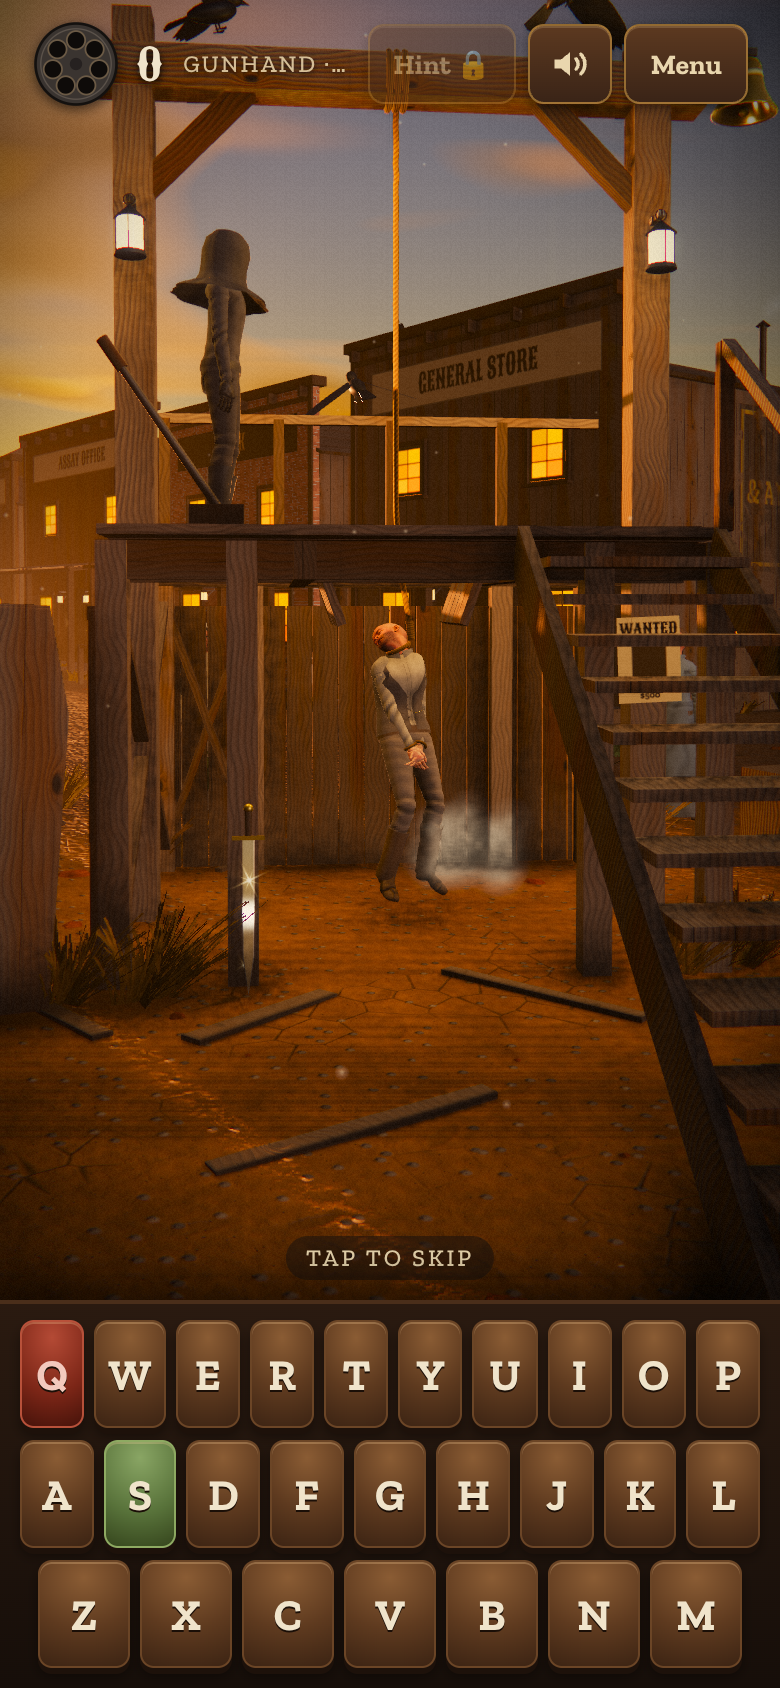
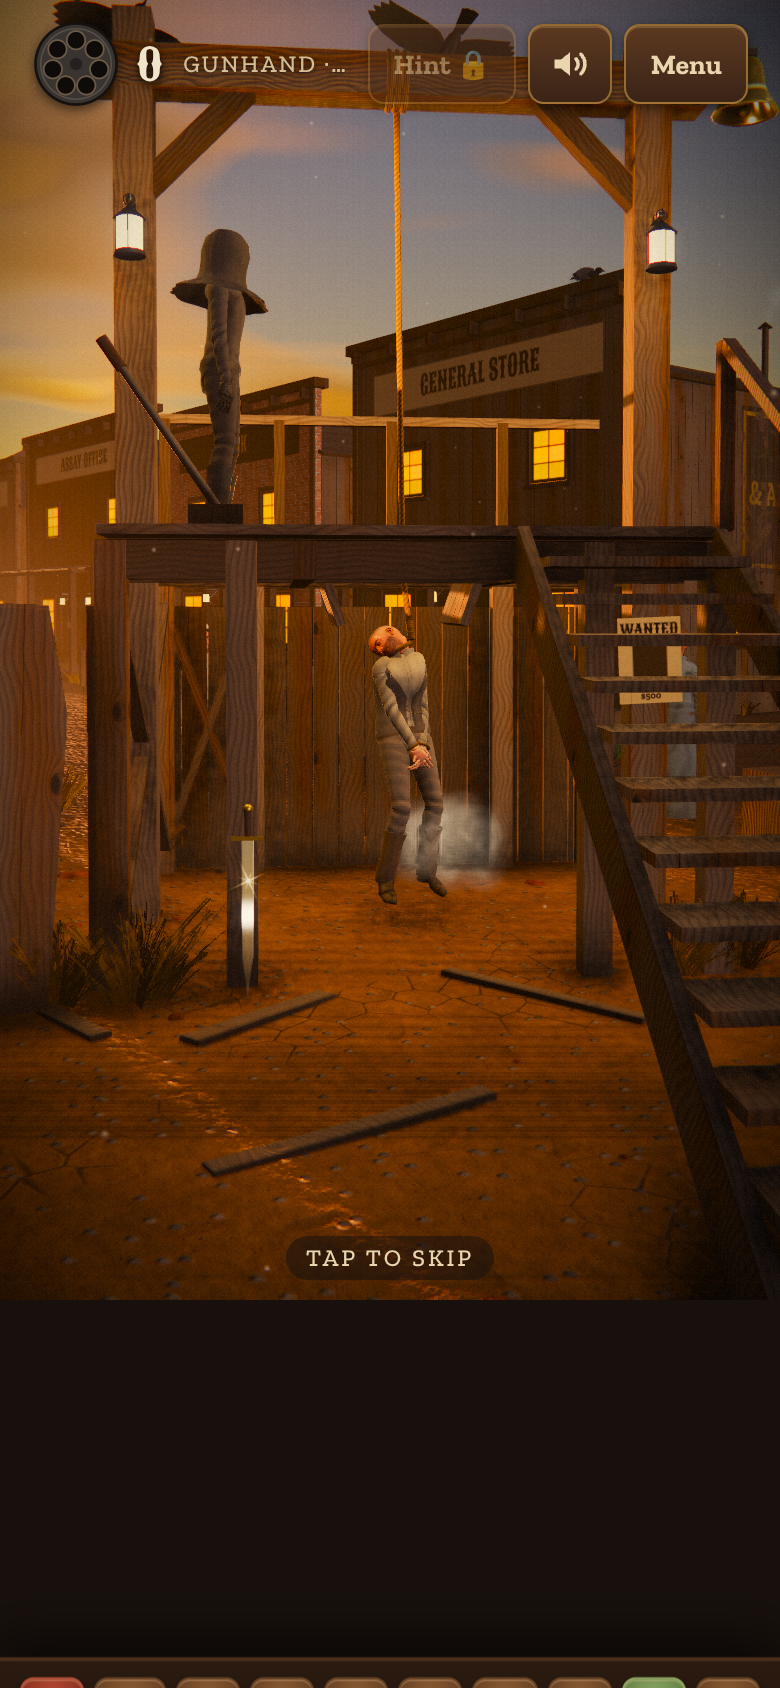
v36: s131 waits for a drawn frame before the Skip click; s136 avoids anything in front of the horse and runs faster; scorch pool drawn only with a mark; screenshots
Claude-Session: https://claude.ai/code/session_01ECGrxhWAaDgD9EEz948RYb

diff --git a/src/12k_laser.js b/src/12k_laser.js
@@ -32,7 +32,7 @@ function prepLaser(gltf) {
   for (const k of ["glowA", "glowB"]) { const s = new THREE.Sprite(new THREE.SpriteMaterial({ map: glow, color: 0x9ad8ff, blending: THREE.AdditiveBlending, depthWrite: false, transparent: true, fog: false }));
     s.visible = false; s.renderOrder = 8; R.scene.add(s); LASER[k] = s; }
   LASER.glowA.material.depthTest = false;
-  LASER.sparks = pointPool(220, 0.045, 0x8fd6ff, true); LASER.scorch = decalPool(140, scorchTex(), false, 0.16);
+  LASER.sparks = pointPool(220, 0.045, 0x8fd6ff, true); LASER.scorch = decalPool(140, scorchTex(), false, 0.16); LASER.scorch.im.visible = false; // (drawn only once there is a mark)
   LASER.ready = true; resetLaser();
 }
 function laserGlowTex() { const c = document.createElement("canvas"); c.width = c.height = 64; const g = c.getContext("2d"), gr = g.createRadialGradient(32, 32, 0, 32, 32, 32);
@@ -70,7 +70,7 @@ function resetLaser() {
   const L = LASER; if (!L.ready) return; L.state = "crate"; L.lift = null; L.charge = LASER_CFG.charge; L.rechargeT = 0; L.hold = L.firing = false; L.awake = false; L.hudKey = "";
   L.vm.visible = false; L.crate.visible = false; L.beam.visible = false; gunHud.key = null; const rb = $("reloads"); if (rb) rb.style.display = ""; L.glowA.visible = L.glowB.visible = false; L.mat.emissiveIntensity = L.e0 * 0.12;
   Sound.laser(false); Sound.laserWake(null, false); Sound.laserCharge(false);
-  L.scorch.used = L.scorch.next = 0; L.scorch.im.count = 0; L.sparks.life.fill(0); L.sparks.pts.visible = false;
+  L.scorch.used = L.scorch.next = 0; L.scorch.im.count = 0; L.scorch.im.visible = false; L.sparks.life.fill(0); L.sparks.pts.visible = false;
 }
 // the revolver's empty: it wakes on the crate, lights up and hums, so you might hear where it is
 function laserWake() { const L = LASER; if (!L.ready || L.state !== "crate" || L.awake) return; L.awake = true; Sound.laserWake(L.crate.position, true); }
@@ -128,7 +128,7 @@ function laserBeam(dt) {
     else if (k === "tgt") { const T = tg.T; if (tg.weed || (T.laserT || 0) <= L.t) { if (T) T.laserT = L.t + 0.3; targetShot(tg, at, rd); } }
     else if (k === "bell") { if (L.bellT <= 0) { L.bellT = 0.7; bellShot(at, rd); } }
     else { const n = env.face ? _l2.copy(env.face.normal).transformDirection(env.object.matrixWorld) : _l2.set(0, 1, 0); if (n.dot(rd) > 0) n.negate();
-      if (L.scorchT <= 0 && !(env.object.material === WORLD.winMat)) { L.scorchT = LASER_CFG.scorchGap; decal(L.scorch, at, n, rnd(0.7, 1.2)); }
+      if (L.scorchT <= 0 && !(env.object.material === WORLD.winMat)) { L.scorchT = LASER_CFG.scorchGap; decal(L.scorch, at, n, rnd(0.7, 1.2)); L.scorch.im.visible = true; }
       if (L.envT <= 0) { L.envT = LASER_CFG.envGap; envShot(env, rd, true); } } }
   // sparks and smoke where it strikes; the beam itself and its glow
   for (let i = 0; i < 3; i++) emit(L.sparks, at, _l3.copy(rd).multiplyScalar(-rnd(0.6, 2.2)).add(_l4.set(rnd(-1.4, 1.4), rnd(-0.3, 1.8), rnd(-1.4, 1.4))), rnd(0.12, 0.35));

diff --git a/test/scenarios/mk_s136.py b/test/scenarios/mk_s136.py
@@ -1,5 +1,6 @@
 # builds test/s136.json: v36, the laser gun on the crate, and horses and crows that fall (or come out as meat).
-#   - the laser lies on the crate at your first cover, out of sight in the usual view and in sight when you look down at it
+#   - the laser lies on the crate at your middle cover, out of sight in the usual views (crouched behind the crate, or up and looking
+#     ahead) and in sight when you look down at it ("seen": how many of its bounding box's corners and middle show, of 9)
 #   - tapping it with a round left in the revolver does nothing but say so
 #   - the town horse shot with the revolver goes down and lies on the ground
 #   - the revolver empty: the laser wakes, a tap picks it up, the fight goes on with it
@@ -19,27 +20,33 @@ steps.append(["wait", 2500]); steps.append(["click", "#startBtn"]); steps.append
 E(open(os.path.join(HERE, "chase_helpers.js")).read())
 E("""window.__check = (name, ok, info) => JSON.stringify({ check: name, ok: !!ok, info, errs: __errs.slice(0, 3) });
 window.__onScreen = p => { R.camera.updateMatrixWorld(); const q = p.clone().project(R.camera); return Math.abs(q.x) < 1 && Math.abs(q.y) < 1 && q.z < 1; };
+window.__seen = o => { o.updateMatrixWorld(); const bb = new THREE.Box3().setFromObject(o), pts = [bb.getCenter(V3())], ro = R.camera.position.clone(); let n = 0; // (how many of its corners and its middle are on the screen with nothing in front)
+  for (const x of [bb.min.x, bb.max.x]) for (const y of [bb.min.y, bb.max.y]) for (const z of [bb.min.z, bb.max.z]) pts.push(V3(x, y, z));
+  for (const p of pts) { if (!__onScreen(p)) continue; const d = p.clone().sub(ro), dist = d.length(), e = sceneryRay(ro, d.normalize(), dist + 1); if (!e || e.distance > dist - 0.02) n++; } return n; };
 window.__tapAt = p => { const r = $('scene').getBoundingClientRect(), q = p.clone().project(R.camera); return { clientX: r.left + (q.x * 0.5 + 0.5) * r.width, clientY: r.top + (-q.y * 0.5 + 0.5) * r.height, cancelable: false, preventDefault() {} }; };
 window.__ray = () => { R.camera.updateMatrixWorld(); return [R.camera.position.clone(), V3(0, 0, -1).applyQuaternion(R.camera.quaternion).normalize()]; };
-window.__track = async (pt, ok, n = 240) => { for (let i = 0; i < n; i++) { __calm(); __aimPt(pt()); await __go(1); const [ro, rd] = __ray(); if (i > 12 && ok(ro, rd)) return true; } return false; };
-window.__horseFirst = (ro, rd) => { const h = townHorseRay(ro, rd), e = sceneryRay(ro, rd, 80); return h && (!e || h.t < e.distance); };
+window.__step = async n => { const RF = window.renderFrame; window.renderFrame = () => {}; try { await __go(n); } finally { window.renderFrame = RF; } return 1; }; // (__go without its one drawn frame at the end: the camera is placed in the tick)
+window.__track = async (pt, ok, n = 240) => { for (let i = 0; i < n; i++) { __calm(); __aimPt(pt()); await __step(1); const [ro, rd] = __ray(); if (i > 12 && ok(ro, rd)) return true; } return false; };
+window.__horseFirst = (ro, rd) => { const h = townHorseRay(ro, rd), e = sceneryRay(ro, rd, 80); if (!h || (e && e.distance < h.t)) return false; // (and nobody, no crow, bottle or bell in the way)
+  for (const E of SIEGE.enemies) { if (!E.alive) continue; const m = rayActor(E.a, ro, rd, E.female, 0.05); if (m && m.t < h.t) return false; }
+  const c = crowRay(ro, rd), t = targetRay(ro, rd), b = bellRay(ro, rd); return !(c && c.t < h.t) && !(t && t.t < h.t) && !(b > 0 && b < h.t); };
 window.__horseInView = () => { const H = LIFE.horse; if (!H.run || !H.grp.visible) return false; const c = H.grp.localToWorld(V3(0, 1.2, 0)), ro = R.camera.position, rd = c.clone().sub(ro), d = rd.length(); rd.normalize(); const e = sceneryRay(ro, rd, d + 1);
   return (!e || e.distance > d - 0.6) && Math.abs(((Math.atan2(rd.x, rd.z) - SIEGE.covers[SIEGE.cover].yaw0 + Math.PI) % TAU + TAU) % TAU - Math.PI) < 1.1; };
 window.__horseUp = async () => { const H = LIFE.horse; H.wait = 0; SIEGE.holding = true; await __go(600, () => { __calm(); return H.run && H.run.seg >= 1 && __horseInView(); });
   return __track(() => H.grp.localToWorld(V3(0, 1.2, 0)), __horseFirst); }; 1""")
 # the laser on the crate
 E("""(async () => { for (let i = 0; i < 100 && !LASER.ready; i++) await new Promise(r => setTimeout(r, 200)); SIEGE_CFG.hitUp = 0; SIEGE_CFG.hitRun = 0; await __siege(); const S = SIEGE, L = LASER;
-  const normal = []; for (const up of [false, true]) for (const pitch of [-0.15, 0, 0.15]) { S.holding = up; S.yaw = S.covers[S.cover].yaw0; S.pitch = pitch; await __go(30, () => { __calm(); return false; }); normal.push(__onScreen(L.crate.position)); }
-  S.holding = true; __aimPt(L.crate.position); await __go(20, () => { __calm(); __aimPt(L.crate.position); return false; }); const seen = __onScreen(L.crate.position), pitch = +S.pitch.toFixed(2);
-  const [ro] = __ray(), to = L.crate.position.clone().sub(ro), d = to.length(), e = sceneryRay(ro, to.normalize(), d + 1), clear = !e || e.distance > d - 0.08;
-  return __check('laser on the crate', L.ready && L.state === 'crate' && L.crate.visible && S.cover === 1 && !normal.some(Boolean) && seen && clear && pitch < -0.5, { cover: S.cover, normal, seen, clear, pitch }); })()""")
+  const normal = []; for (const up of [false, true]) for (const pitch of [-0.15, 0, 0.15]) { S.holding = up; S.yaw = S.covers[S.cover].yaw0; S.pitch = pitch; await __go(30, () => { __calm(); return false; }); normal.push(__seen(L.crate)); }
+  S.holding = true; __aimPt(L.crate.position); await __go(20, () => { __calm(); __aimPt(L.crate.position); return false; }); const seen = __seen(L.crate), pitch = +S.pitch.toFixed(2);
+  return __check('laser on the crate', L.ready && L.state === 'crate' && L.crate.visible && S.cover === 1 && normal.every(n => n <= 1) && seen >= 4 && pitch < -0.5, { cover: S.cover, normal, seen, pitch }); })()""")
 shot("a_crate")
 E("""(async () => { const L = LASER, used = laserTap(__tapAt(L.crate.position)); await __go(2);
   return __check('not while the revolver is loaded', used && L.state === 'crate' && /revolver/.test($('siegeTip').textContent) && !$('siegeTip').hidden, { used, state: L.state, tip: $('siegeTip').textContent }); })()""")
 # the town horse, shot with the revolver
-E("""(async () => { const H = LIFE.horse, S = SIEGE, got = await __horseUp(); const p0 = S.pools.length; S.cool = 0; S.reloadT = 0; S.bullets = 6; fireTap(); await __go(3); const shot = !!H.dead && !H.run;
+E("""(async () => { const H = LIFE.horse, S = SIEGE, p0 = S.pools.length; let got = false, tries = 0;
+  while (!H.dead && tries < 3) { tries++; got = await __horseUp(); S.cool = 0; S.reloadT = 0; S.bullets = 6; fireTap(); await __go(3); } const shot = !!H.dead && !H.run; // (a gunman can step into the line: again, next time it comes through)
   await __go(110, () => { __calm(); return false; }); const c = H.grp.localToWorld(V3(0, 1.15, 0)), fl = groundVis(c.x, c.z);
-  return __check('the horse falls (revolver)', got && shot && H.dead.landed && H.grp.visible && c.y - fl < 0.6 && S.pools.length > p0, { got, shot, landed: H.dead && H.dead.landed, body: +(c.y - fl).toFixed(2), pools: S.pools.length - p0 }); })()""")
+  return __check('the horse falls (revolver)', got && shot && H.dead.landed && H.grp.visible && c.y - fl < 0.6 && S.pools.length > p0, { got, tries, shot, landed: H.dead && H.dead.landed, body: +(c.y - fl).toFixed(2), pools: S.pools.length - p0 }); })()""")
 shot("b_horse_down")
 # out of bullets: the laser wakes; picked up
 E("""(async () => { const S = SIEGE, L = LASER; S.bullets = 0; S.reloads = 0; S.reloadT = 0; siegeDoomed(); await __go(30); const awake = L.awake, phase0 = S.phase; __aimPt(L.crate.position); await __go(20);

diff --git a/test/scenarios/mk_s131.py b/test/scenarios/mk_s131.py
@@ -183,6 +183,9 @@ E("""(async () => { try { const C = CHASE, out = {}; await __go(200, () => C.sta
   await __go(400, () => C.state === 'combat' && C.safeT <= 0); const v0 = __cnt.victory; let guard = 0;
   while (C.state === 'combat' && guard++ < 400) { C.hp = 3; if (C.rounds <= 0 || C.reloadT > 0) { if (C.reloadT <= 0) { C.reloads = Math.max(C.reloads, 1); chaseReload(); } await __go(110, () => C.reloadT <= 0); continue; } const alive = C.riders.filter(r => r.alive && r.state !== 'wait').sort((a, b) => a.d - b.d); if (alive[0]) __fireAt(alive[0]); await __go(20, () => C.state !== 'combat'); }
   await __go(30); out.skip = { state: C.state, shown: __vis('chaseSkip'), cliffSeen: STATE.cliffSeen, victory: __cnt.victory - v0 }; return JSON.stringify(out); } catch (e) { return 'ERR ' + e.stack; } })()""")
+# (the page drawing again first: under SwiftShader the first frames of the ending can hold up the compositor for many seconds,
+#  and Playwright clicks only a button it has seen hold still over two drawn frames; 6.6 s here in v35, over 25 s in one v36 run)
+E("""new Promise(res => { const to = setTimeout(() => res('no frame in 90 s'), 90000); requestAnimationFrame(() => requestAnimationFrame(() => { clearTimeout(to); res(1); })); })""")
 steps.append(["wait", 600])  # (a real moment for the button to settle: Playwright clicks only a button that has stopped moving)
 steps.append(["click", "#chaseSkip"])
 E("""(async () => { const C = CHASE; await __go(5); return JSON.stringify({ state: C.state, title: document.getElementById('resTitle').textContent, scream: !!C.scream, victory: __cnt.victory, rides: STATE.rides, errs: __errs }); })()""")

diff --git a/ASSETS.md b/ASSETS.md
@@ -210,17 +210,17 @@ Most of the world has no asset file: it is generated when the page loads, sized 
 
 | File | Pixels | Bytes |
 |---|---:|---:|
-| `00-wide.png` | 1920×1080 | 2.13 MB |
-| `01-title.png` | 780×1688 | 700.6 KB |
+| `00-wide.png` | 1920×1080 | 2.22 MB |
+| `01-title.png` | 780×1688 | 700.8 KB |
 | `02-round.png` | 780×1688 | 1.49 MB |
-| `03-solved.png` | 780×1688 | 1.36 MB |
-| `04-sword.png` | 780×1688 | 1.57 MB |
+| `03-solved.png` | 780×1688 | 1.33 MB |
+| `04-sword.png` | 780×1688 | 1.49 MB |
 | `05-shootout.png` | 780×1688 | 1.60 MB |
-| `06-game-over.png` | 780×1688 | 1.43 MB |
-| `07-word-book.png` | 780×1688 | 570.3 KB |
+| `06-game-over.png` | 780×1688 | 1.38 MB |
+| `07-word-book.png` | 780×1688 | 574.6 KB |
 | `08-rooftops.png` | 780×1688 | 1.50 MB |
-| `09-getaway-ride.png` | 780×1688 | 1.87 MB |
-| `10-getaway-fight.png` | 780×1688 | 1.19 MB |
+| `09-getaway-ride.png` | 780×1688 | 1.85 MB |
+| `10-getaway-fight.png` | 780×1688 | 1.20 MB |
 | `11-getaway-cliff.png` | 780×1688 | 1.02 MB |
 
 ## Totals
